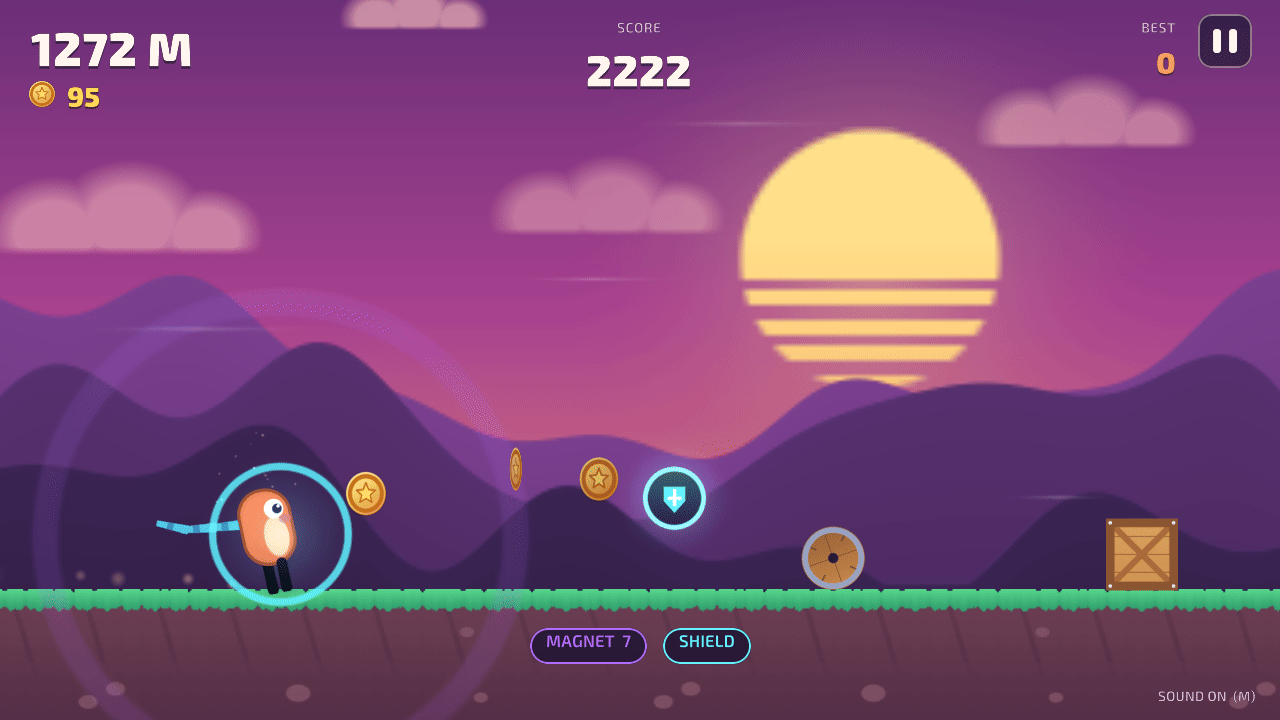
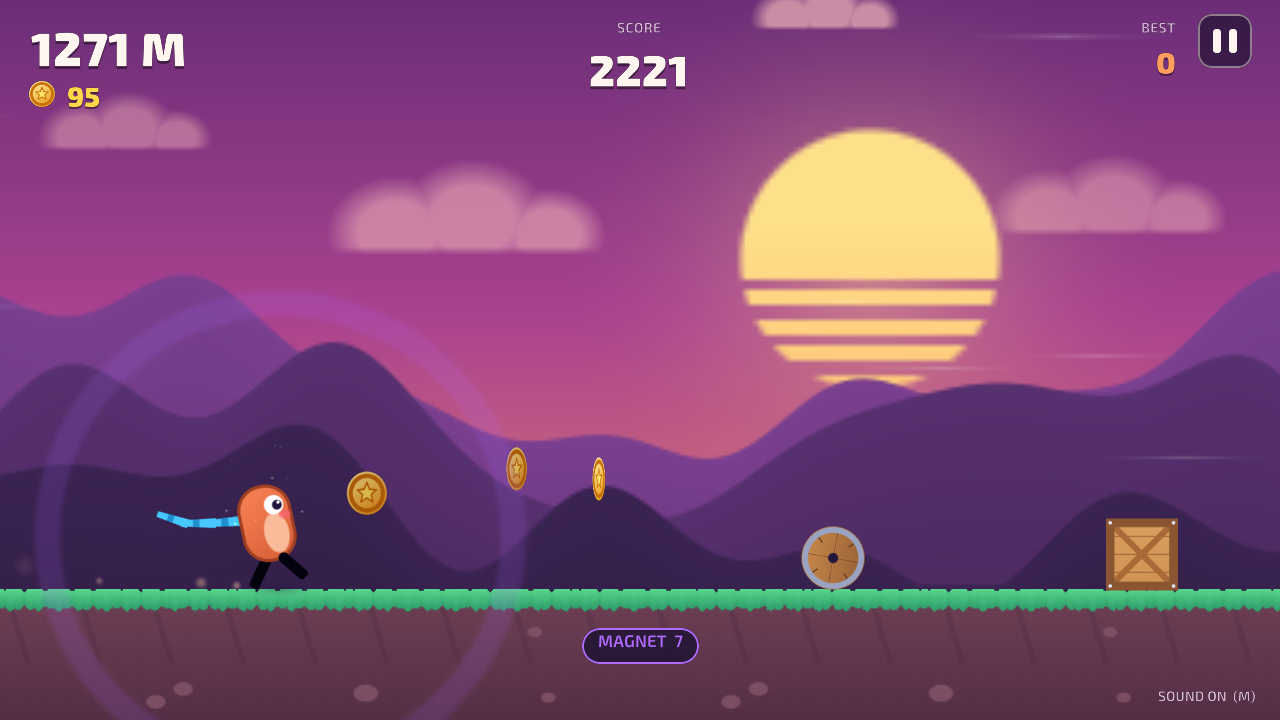
docs: show a reachable power-up state and correct the README
The powers screenshot showed the magnet and a shield at once, which the game never allows. Also name the left-hand slide keys, explain that a held shield stops power-ups, and update the test count.

diff --git a/Assets/Scripts/Game/ScreenshotScenarios.cs b/Assets/Scripts/Game/ScreenshotScenarios.cs
@@ -158,7 +158,6 @@ namespace BalloonDash.Game
                 case "powers":
                     yield return Begin(1240f, 92);
                     director.Run.Activate(PickupKind.Magnet, director.Run.Distance, 1f);
-                    director.Run.Activate(PickupKind.Shield, director.Run.Distance, 1f);
                     yield return Advance(1.1f);
                     director.Run.ClearTrack();
                     for (int i = 0; i < 6; i++)
@@ -167,7 +166,6 @@ namespace BalloonDash.Game
                     }
                     director.Run.Place(ObstacleKind.Barrel, 9f);
                     director.Run.Place(ObstacleKind.Crate, 13f);
-                    director.Run.Place(PickupKind.Shield, 7f, 1.3f);
                     yield return Advance(0.08f);
                     break;
                 case "crash":

diff --git a/README.md b/README.md
@@ -14,7 +14,7 @@ on those two ideas as an original game (see [Where it came from](#where-it-came-
 | | |
 |---|---|
 | ![Title screen with the autopilot running a demo behind the menu](docs/screenshots/title.png) | ![Floating under the balloon between bombs and a cloud of coins](docs/screenshots/balloon.png) |
-| ![Sliding under a hanging sign, with a stack of crates ahead](docs/screenshots/slide.png) | ![The magnet pulling in coins while the shield is up](docs/screenshots/powers.png) |
+| ![Sliding under a hanging sign, with a stack of crates ahead](docs/screenshots/slide.png) | ![The magnet pulling in coins](docs/screenshots/powers.png) |
 | ![Results after crashing into a barrel, with a new best score](docs/screenshots/crash.png) | ![How to play: every control and what every obstacle needs](docs/screenshots/howto.png) |
 
 ## Run it
@@ -56,7 +56,7 @@ or, without a player,
 | Jump (again in the air for a double jump) | Space, W, ↑ or left click | Tap the right side of the screen | A, RB or RT |
 | Short hop | Let go of jump early | Lift the finger early | Let go early |
 | Rise under the balloon | Hold jump | Hold the right side | Hold A |
-| Slide (in the air: dive, then slide) | S, ↓, Shift, Ctrl or right click | Tap the left side, or swipe down | B, X, LB, LT, d-pad or stick down |
+| Slide (in the air: dive, then slide) | S, ↓, Left Shift, Left Ctrl or right click | Tap the left side, or swipe down | B, X, LB, LT, d-pad or stick down |
 | Pause | Esc or P | The ❚❚ button at the top right | Start |
 | Menus | ↑ / ↓ to choose, ← / → to change a value, Enter to select, Esc to go back; or click a row | Tap a row | D-pad or stick, A to select, B to go back |
 | Mute | M | Settings → Sound | Settings → Sound |
@@ -72,7 +72,7 @@ or, without a player,
 - **Speed** starts at 9 m/s and eases towards 22 m/s; it is halfway there at about 620 m.
 - **Score** is one point per metre plus ten per coin. Coins come in arcs over obstacles, in
   lines on the ground and up where a jump reaches.
-- **Power-ups** appear every 380 to 560 m, never while one is running. The **balloon** (from
+- **Power-ups** appear every 380 to 560 m, never while one is running or a shield is held. The **balloon** (from
   Challenge 3) lifts you for 7 seconds: hold jump to rise, let go to sink, bounce off the
   ground; the ground obstacles ahead vanish and bombs and coin clouds fill the sky instead. The
   **magnet** pulls in coins within 4 m for 8 seconds. The **shield** takes one hit and smashes
@@ -86,7 +86,7 @@ or, without a player,
 - **Rules without the engine.** The runner's motion (jump buffer, double jump, short hop,
   slide, dive, balloon float), the seeded track, the speed curve, scoring, power-ups, records
   and settings live in `Assets/Scripts/Core`, a plain C# assembly with no Unity references,
-  covered by 48 deterministic EditMode tests. They check things like "every gap between
+  covered by 51 deterministic EditMode tests. They check things like "every gap between
   patterns is a full jump plus reaction time at the speed it is reached, on 40 seeds" and "a
   jump pressed 0.08 s before landing fires on landing, one pressed 0.3 s before does not".
 - **An autopilot as a fairness test.** `Autopilot` plays the game through the same buttons as
